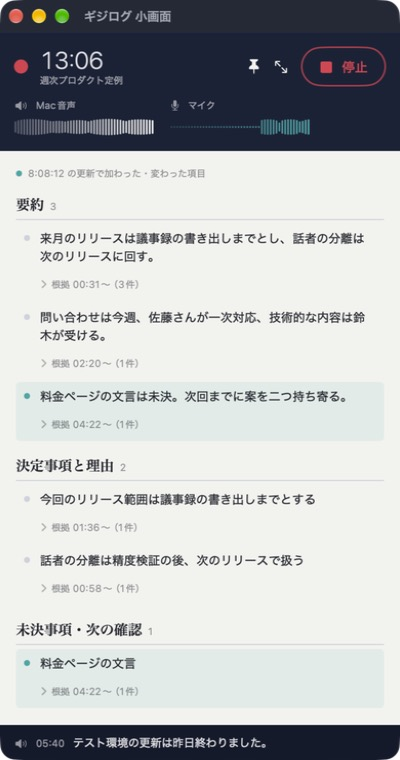
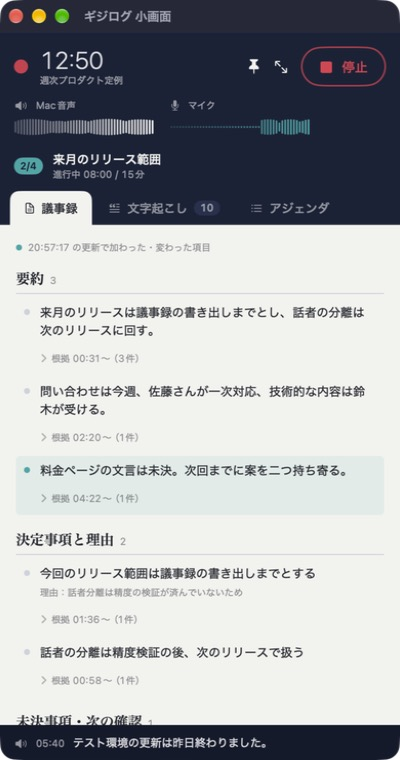
Bring the READMEs and screenshots up to date
- Recording starts on the first click now that only audio permissions are
  needed; note the Keychain prompt after ad hoc rebuilds
- List the keyboard shortcuts in one table
- Describe the compact window by its three tabs and the current-topic line,
  and the full window's sidebar search and agenda
- Say that the agenda goes to OpenAI while recording, and that titles and tags
  do not; note that topic tracking lags about 30 seconds and can be wrong
- Add App.swift and Models.swift to the file table
- Retake both screenshots with the tabs and an agenda in progress

Changed region(s): [[0.0, 0.1816, 1.0, 0.9684], [0.12, 0.0605, 0.27, 0.0908]]

diff --git a/README.md b/README.md
@@ -7,14 +7,14 @@
 
 <p>
   <img src="docs/images/compact.jpg" alt="会議中の小画面" height="420">
-  <img src="docs/images/main.jpg" alt="会議後に見返す大きい画面" height="420">
+  <img src="docs/images/main.jpg" alt="大きい画面（会議の一覧、アジェンダ付きの議事録、文字起こし）" height="420">
 </p>
 
 ## できること
 
 - **録音**：Zoom・Teams・Google Meet などに参加したまま、Mac から出る音とマイクの声を別々のトラックで録音します。会議アプリの設定は変えず、画面の録画の許可も要りません。
 - **リアルタイムの議事録**：約12秒ごとに OpenAI で文字起こしし、30秒ごとに議事録を書き足します。
-- **進行しやすい小画面**：決定事項・未決事項・アクションアイテムを並べ、直近の更新で変わった項目に色を付けます。担当や期限が決まっていないアクションは目立たせるので、その場で確認できます。
+- **進行しやすい小画面**：決定事項・未決事項・アクションアイテムを並べ、直近の更新で変わった項目に色を付けます。担当や期限が決まっていないアクションは目立たせるので、その場で確認できます。議事録・文字起こし・アジェンダはタブで切り替えます。
 - **根拠のある議事録**：議事録の各項目には、もとになった発言の時刻が付きます。発言に根拠のない項目や、発言にない担当者・期限は載せません。
 - **録音ファイルからも作成**：ボイスメモや Zoom の録画など、あとから音声・動画ファイルを読み込んで議事録にできます。
 - **音声と議事録をまとめて保存**：会議ごとのフォルダに `議事録.md` と `録音.m4a` を残します。
@@ -39,13 +39,21 @@ open dist/ギジログ.app
 ```
 
 1. 設定（⌘,）で OpenAI の API キーを保存します。
-2. 「録音を開始」を押します。初回は macOS がマイクとシステムオーディオ（Mac から出る音）の録音の許可を求めるので、どちらも許可してください。画面の録画の許可は要りません。
-3. もう一度「録音を開始」を押すと、録音と議事録づくりが始まります。
+2. 「録音を開始」を押すと、録音と議事録づくりが始まります。初回は macOS がマイクとシステムオーディオ（Mac から出る音）の録音の許可を求めるので、どちらも許可してください。画面の録画の許可は要りません。
 
 録音の開始と停止は、画面右上のメニューバーのアイコン（波形、録音中は録音マーク）や、アプリの「録音」メニュー（⌘⇧R）からもできます。ウインドウを閉じていても使えます。
 
+| ショートカット | 内容 |
+| --- | --- |
+| ⌘⇧R | 録音を開始・停止 |
+| ⌘N | アジェンダを準備（録音前の会議を作る） |
+| ⌘O | 録音ファイルを読み込む |
+| ⌘F | 会議を検索 |
+| ⌘1 / ⌘2 / ⌘3 | 小画面の「議事録」「文字起こし」「アジェンダ」タブ |
+| ⌘, | 設定 |
+
 > [!NOTE]
-> 開発用の署名（ad-hoc）でビルドすると、ビルドし直すたびに録音の許可が外れます。外れたときは次のコマンドで古い許可を消し、2. からやり直してください。固定の署名で避ける方法は「[ビルドし直しても許可を保つ](#ビルドし直しても許可を保つ)」にあります。
+> 開発用の署名（ad-hoc）でビルドすると、ビルドし直すたびに録音の許可が外れ、保存した API キーを読むときにキーチェーンの確認も出ます（「常に許可」を押してください）。録音の許可が外れたときは次のコマンドで古い許可を消し、2. からやり直してください。固定の署名で避ける方法は「[ビルドし直しても許可を保つ](#ビルドし直しても許可を保つ)」にあります。
 >
 > ```sh
 > tccutil reset AudioCapture io.github.nutcase.gijilog
@@ -60,15 +68,15 @@ open dist/ギジログ.app
 録音を始めると小画面に切り替わり、ほかのウインドウより手前に表示されます。
 
 - 上部：経過時間、Mac 音声とマイクの音量の波形、停止ボタン。マイクの波形が平らなままなら、声が入っていません。
-- 本文：要約 → 決定事項と理由 → 未決事項・次の確認 → 議論の経緯 → アクションアイテムの順に並びます。
-- 下端：最新の発言。
-- 「議事録」「文字起こし」のタブで、文字起こし全体に切り替えられます。録音中の文字起こしは最新の発言まで自動でスクロールします。
-- アジェンダがある会議では、タブの上に今の議題と、経過時間・予定時間が出ます。「アジェンダ」タブで全体の進み具合を確かめられます。
+- アジェンダがある会議では、その下に今の議題（何番目か・経過時間・予定時間）が出ます。予定時間を過ぎると色が変わります。
+- 「議事録」タブ：要約 → 決定事項と理由 → 未決事項・次の確認 → 議論の経緯 → アクションアイテムの順に並び、下端に最新の発言が出ます。
+- 「文字起こし」タブ：文字起こし全体。録音中は最新の発言まで自動でスクロールし、読み返している間は止まります。
+- 「アジェンダ」タブ（アジェンダがある会議だけ）：議題ごとの進み具合とかかった時間。
 - ピンで手前への固定を外せます。矢印のボタンで大きい画面に戻ります。画面を切り替えても録音は続きます。
 
 ### 会議のあとは大きい画面で
 
-議事録を中央に、文字起こしを右に並べて表示します。録音中の文字起こしは最新の発言まで自動でスクロールし、読み返している間は止まります。
+左に会議の一覧（検索欄とタグの絞り込み付き）、中央に議事録、右に文字起こしを並べて表示します。アジェンダがある会議では、議事録の先頭にアジェンダが出ます。録音中の文字起こしは最新の発言まで自動でスクロールし、読み返している間は止まります。
 
 ツールバーからできること：
 
@@ -139,10 +147,10 @@ open dist/ギジログ.app
     ├── 録音.m4a         Mac 音声とマイクを重ねた聞き返し用の音声（録音の停止後に作成）
     ├── chunks/          作業用の音声（文字起こしのために約12秒ごとに区切った音声）
     ├── recording.json   ここから下はアプリが使うデータ
-    └── meeting.json
+    └── meeting.json     タグ・アジェンダを含む会議の情報
 ```
 
-`議事録.md` はアプリが書き直すので、手を加えるときは別名で保存してください。
+`議事録.md` はアプリが書き直すので、手を加えるときは別名で保存してください。アジェンダを準備しただけの会議のフォルダには、`meeting.json` とアジェンダの `議事録.md` だけがあります。
 
 ### 容量
 
@@ -163,8 +171,8 @@ open dist/ギジログ.app
 
 ## プライバシーと録音の同意
 
-- **OpenAI に送るもの**：約12秒ごとの音声（無音の部分は送りません）、文字起こしの文章、それまでの議事録。議事録の生成は `store: false` で依頼します。
-- **Mac に残るもの**：録音、文字起こし、議事録。API キーは Keychain にあり、会議のファイルには書き込みません。
+- **OpenAI に送るもの**：約12秒ごとの音声（無音の部分は送りません）、文字起こしの文章、それまでの議事録、録音中はアジェンダ（議題と決めたいこと）。会議のタイトルとタグは送りません。議事録の生成は `store: false` で依頼します。
+- **Mac に残るもの**：録音、文字起こし、議事録、アジェンダ、タグ。API キーは Keychain にあり、会議のファイルには書き込みません。
 - **同意**：会議を録音・文字起こしするときは、参加者に伝えて同意を得てください。録音に関する法令や所属先の規程にも従ってください。
 - **確認**：議事録は AI による要約です。大事な内容は文字起こしの原文で確かめてください。
 
@@ -175,6 +183,7 @@ open dist/ギジログ.app
 - 話者は区別しません。「Mac 音声」「マイク」は音が入ってきた経路です。
 - スピーカーで会議の音を流すとマイクにも入り、二重に録音されます。イヤホンを使ってください。
 - 30秒は更新の間隔の目安です。通信や API が遅いと遅れます。
+- どの議題を話しているかの判断は、この更新に合わせて行うため、話題が変わってから表示が変わるまで30秒ほどかかります。AI の判断なので、ずれることもあります。
 - 長い会議では、それまでの議事録も毎回送るため、モデルの入力上限に近づくことがあります。
 - 配布用の署名と公証には対応していません。ソースからビルドして使ってください。
 
@@ -194,11 +203,13 @@ open dist/ギジログ.app
 
 | ファイル | 役割 |
 | --- | --- |
+| `App.swift` | ウインドウ、メニュー、メニューバーのアイコン |
 | `Recorder.swift` | Core Audio のプロセスタップで Mac 音声を、AVCaptureSession でマイクを録音し、約12秒ごとに区切る |
-| `Pipeline.swift` | 文字起こしの並行処理（最大2件）、再試行、議事録の更新要求のまとめ |
-| `MinutesEngine.swift` | 議事録の差分更新、根拠の検証、Markdown の作成 |
+| `Pipeline.swift` | 文字起こしの並行処理（最大2件）、再試行、議事録の更新要求のまとめ、議題の判断の反映 |
+| `MinutesEngine.swift` | 議事録の差分更新、根拠の検証、議題の判断の読み取り、Markdown の作成 |
 | `Processing.swift` | OpenAI への送信、無音の除外、録音ファイルの合成と読み込み |
-| `Store.swift` | 録音の開始・停止、保存、再起動後の復旧、保存先の移動 |
+| `Models.swift` | 会議・議事録・アジェンダのデータと保存、タグと検索、アジェンダの読み取り |
+| `Store.swift` | 録音の開始・停止、準備中の会議、保存、再起動後の復旧、保存先の移動、タグ・検索・アジェンダの操作 |
 | `Views.swift` | 大きい画面・小画面・設定 |
 
 ### ビルドし直しても許可を保つ

diff --git a/README.en.md b/README.en.md
@@ -10,7 +10,7 @@ Keep its compact window next to the call to see what has been decided, what is s
 
 <p>
   <img src="docs/images/compact.jpg" alt="Compact window during a meeting" height="420">
-  <img src="docs/images/main.jpg" alt="Full window for reviewing a meeting" height="420">
+  <img src="docs/images/main.jpg" alt="Full window with the meeting list, the minutes with an agenda, and the transcript" height="420">
 </p>
 
 ## Features
@@ -42,13 +42,21 @@ open dist/ギジログ.app
 ```
 
 1. Open Settings (⌘,) and save your OpenAI API key.
-2. Click 録音を開始 (Start recording). The first time, macOS asks to let the app record the microphone and system audio (the sound your Mac plays); allow both. No screen recording permission is needed.
-3. Click 録音を開始 again to start recording and writing the minutes.
+2. Click 録音を開始 (Start recording) to start recording and writing the minutes. The first time, macOS asks to let the app record the microphone and system audio (the sound your Mac plays); allow both. No screen recording permission is needed.
 
 You can also start and stop from the menu bar icon (a waveform, or a record mark while recording) or the app's 録音 menu (⌘⇧R), even with every window closed.
 
+| Shortcut | Action |
+| --- | --- |
+| ⌘⇧R | Start or stop recording |
+| ⌘N | Prepare an agenda (create a meeting before recording it) |
+| ⌘O | Import a recording file |
+| ⌘F | Search meetings |
+| ⌘1 / ⌘2 / ⌘3 | Compact window tabs: minutes, transcript, agenda |
+| ⌘, | Settings |
+
 > [!NOTE]
-> Builds are signed ad hoc by default, so every rebuild loses the recording permission. Clear the stale entry and repeat step 2:
+> Builds are signed ad hoc by default, so every rebuild loses the recording permission, and reading the saved API key asks for Keychain access again (click Always Allow). Clear the stale permission and repeat step 2:
 >
 > ```sh
 > tccutil reset AudioCapture io.github.nutcase.gijilog
@@ -102,8 +110,8 @@ While a meeting is recorded and processed, the working audio takes about 230 MB 
 
 ## Privacy and consent
 
-- **Sent to OpenAI**: about 12 seconds of audio at a time (silence is skipped), the transcript text, and the minutes so far. Minutes are requested with `store: false`.
-- **Kept on your Mac**: recordings, transcripts, and minutes. The API key stays in the Keychain and is never written to meeting files.
+- **Sent to OpenAI**: about 12 seconds of audio at a time (silence is skipped), the transcript text, the minutes so far, and, while recording, the agenda (topics and goals). Meeting titles and tags are not sent. Minutes are requested with `store: false`.
+- **Kept on your Mac**: recordings, transcripts, minutes, agendas, and tags. The API key stays in the Keychain and is never written to meeting files.
 - **Consent**: tell participants and get their consent before recording or transcribing a meeting, and follow the laws and policies that apply to you.
 - **Review**: the minutes are an AI summary. Check anything important against the transcript.
 
@@ -114,6 +122,7 @@ If your Documents folder syncs with iCloud Drive, recordings are uploaded too.
 - No speaker identification: "Mac音声" and "マイク" are where the sound came from, not who spoke.
 - Playing the call through speakers records it twice through the microphone. Use headphones.
 - 30 seconds is the update interval, not a guarantee; slow networks or APIs delay updates.
+- The current agenda topic is judged with these updates, so it changes about 30 seconds after the talk moves on, and as an AI judgment it can be wrong.
 - Very long meetings send the growing minutes each time and can approach the model's input limit.
 - No Developer ID signing or notarization yet: build from source.
 
